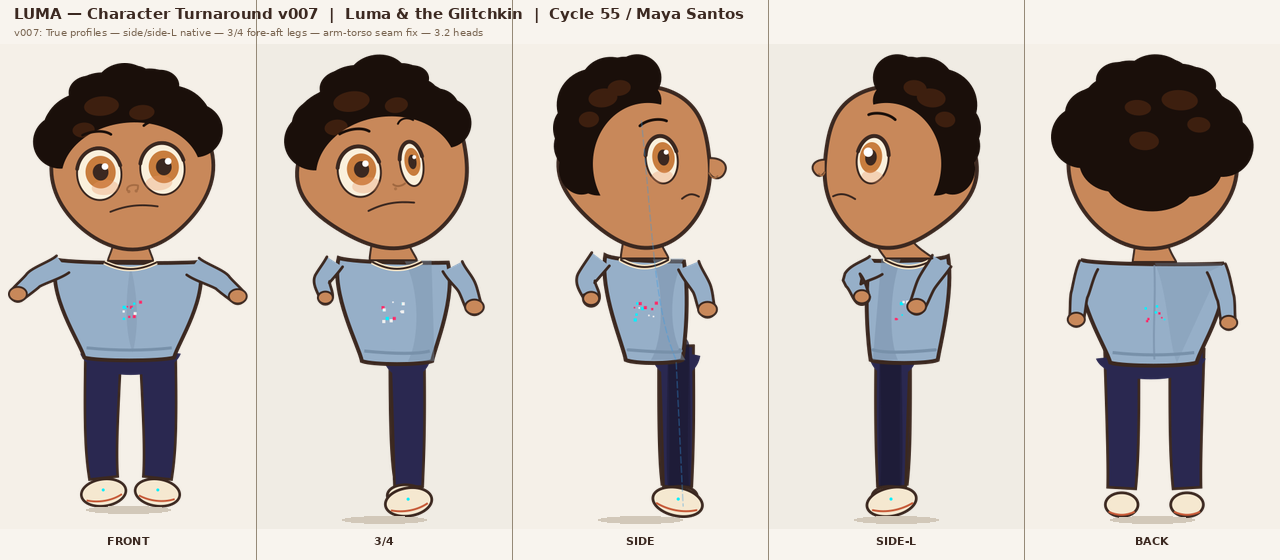
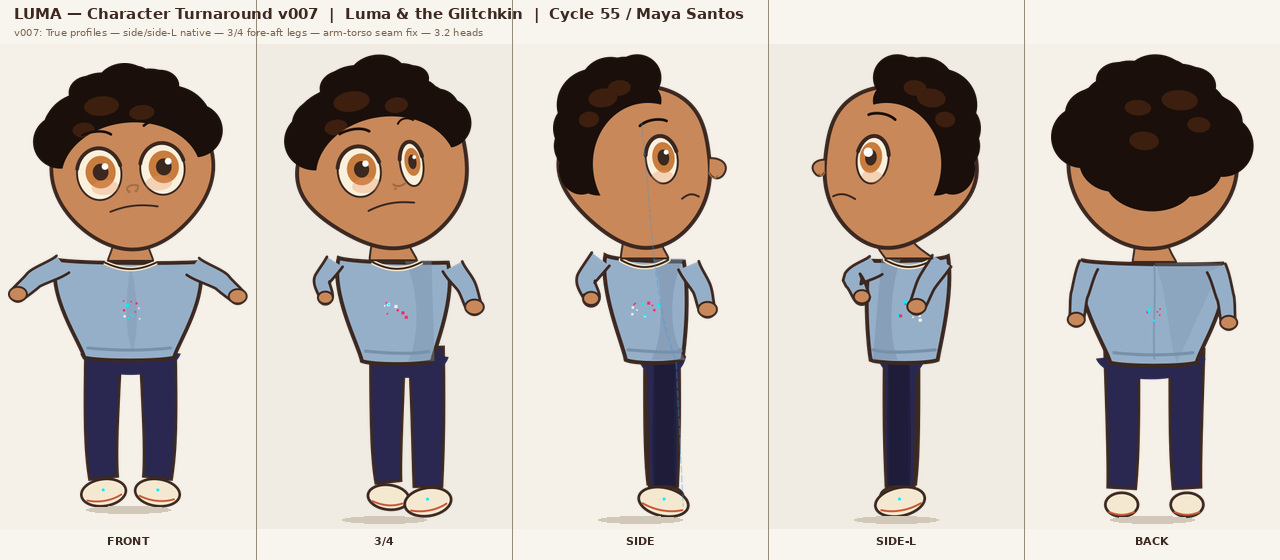
C59 Maya: fix 3/4-view leg spread and side-view leg centering in char_luma
Bug 1 (3/4 view): Both legs were at hip_cx with zero lateral spread — looked like
a side view. Fixed by adding leg_offset_3q = head_r * 0.40 * 0.62 * stance_mult,
spreading near/far legs symmetrically around hip_cx. Hip bridge width updated to
span the spread legs.

Bug 2 (side-R and side-L): Legs were anchored to hip_cx, so any hip sway from
expression specs shifted them off-center. Fixed by anchoring near_leg_x and
far_leg_x to cx (canvas center) in both _draw_luma_on_context and _draw_luma_side_l.
Hip bridge hip_bridge_cx also updated to cx. Torso-to-leg diagonal still reads
naturally as a weight shift.

All 21 combos (7 expressions x 3 views) render clean. Turnaround regenerated.

diff --git a/output/tools/LTG_TOOL_char_luma.py b/output/tools/LTG_TOOL_char_luma.py
@@ -806,9 +806,10 @@ def _draw_luma_on_context(ctx, cx, ground_y, char_h, expression, spec, scale=1.0
     back_foot_lift = spec["back_foot_lift"] * s
     heel_lift = spec.get("heel_lift", 0) * s
 
-    # Side view: both legs centered at hip_cx; depth read via y-axis only
-    near_leg_x = hip_cx  # near leg centered
-    far_leg_x  = hip_cx  # far leg centered
+    # Side view: legs anchored to cx (canvas center), not hip_cx.
+    # Hip sway shifts the torso/waist but feet stay planted at center.
+    near_leg_x = cx  # near leg at canvas center
+    far_leg_x  = cx  # far leg at canvas center
 
     # Near foot is slightly lower Y (closer = lower in perspective), far at ground
     near_foot_lift = front_foot_lift
@@ -840,7 +841,7 @@ def _draw_luma_on_context(ctx, cx, ground_y, char_h, expression, spec, scale=1.0
     hip_bridge_y_top = torso_bot_y - torso_h * 0.04
     hip_bridge_y_bot = torso_bot_y + leg_w_top * 1.2
     hip_bw = leg_w_top * 1.4  # legs centered, so width from leg_w_top only
-    hip_bridge_cx = hip_cx
+    hip_bridge_cx = cx  # match leg anchor (cx, not hip_cx)
     ctx.new_path()
     ctx.move_to(hip_bridge_cx - hip_bw, hip_bridge_y_top)
     ctx.curve_to(hip_bridge_cx - hip_bw * 0.8, hip_bridge_y_bot + 4*s,
@@ -1717,12 +1718,16 @@ def _draw_luma_threequarter(ctx, cx, ground_y, char_h, expression, spec, scale=1
     heel_lift = spec.get("heel_lift", 0) * s
     stance_mult = spec.get("stance_wide", 1.0)
 
-    # Legs centered at hip_cx; depth read via y-axis only
-    near_leg_x = hip_cx  # near leg centered
-    far_leg_x  = hip_cx  # far leg centered
-    # Y offset: near foot sits lower (front of body plane), far foot slightly higher
-    near_extra_y = 0   # near leg at normal ground
-    far_extra_lift = head_r * 0.06  # far foot slightly raised = depth recession
+    # 3/4 view: legs have lateral spread (NOT both at hip_cx — that's side-view logic).
+    # Near leg (right = fr_x) slightly to the near/right side; far leg (left = fl_x) to the far side.
+    # Spread is ~62% of front view offset (front uses head_r * 0.40).
+    leg_offset_3q = head_r * 0.40 * 0.62 * stance_mult
+    fl_x = hip_cx - leg_offset_3q  # far leg (character's left, receding)
+    fr_x = hip_cx + leg_offset_3q  # near leg (character's right, forward)
+    far_leg_x  = fl_x
+    near_leg_x = fr_x
+    # Y offset: near foot at normal ground, far foot slightly raised (depth recession)
+    far_extra_lift = head_r * 0.06  # far foot slightly higher = receding
 
     # Far leg first (behind near); slight knee bow for visual interest
     bl_top = (far_leg_x, torso_bot_y - leg_overlap)
@@ -1744,8 +1749,8 @@ def _draw_luma_threequarter(ctx, cx, ground_y, char_h, expression, spec, scale=1
     _draw_variable_stroke_limb(ctx, front_leg_pts, leg_w_top, leg_w_bot,
                                PANTS, LINE_COL, lw_major)
 
-    # Hip bridge
-    hip_bw = leg_w_top * 1.4  # legs centered, so width from leg_w_top only
+    # Hip bridge: spans between spread legs
+    hip_bw = leg_offset_3q + leg_w_top * 1.3  # match front-view pattern
     hip_bridge_cx = hip_cx
     hip_bridge_y_top = torso_bot_y - torso_h * 0.04
     hip_bridge_y_bot = torso_bot_y + leg_w_top * 1.2
@@ -2447,9 +2452,10 @@ def _draw_luma_side_l(ctx, cx, ground_y, char_h, expression, spec, scale=1.0):
     back_foot_lift = spec_l["back_foot_lift"] * s
     heel_lift = spec.get("heel_lift", 0) * s
 
-    # Side-L faces left; both legs centered at hip_cx, depth read via y-axis only
-    near_leg_x = hip_cx  # near leg centered
-    far_leg_x  = hip_cx  # far leg centered
+    # Side-L: legs anchored to cx (canvas center), not hip_cx.
+    # Hip sway shifts the torso/waist but feet stay planted at center.
+    near_leg_x = cx  # near leg at canvas center
+    far_leg_x  = cx  # far leg at canvas center
     far_extra_lift = head_r * 0.04  # far foot slightly higher = receding
 
     # Far leg first; slight knee bow for visual interest
@@ -2476,7 +2482,7 @@ def _draw_luma_side_l(ctx, cx, ground_y, char_h, expression, spec, scale=1.0):
     hip_bridge_y_top = torso_bot_y - torso_h * 0.04
     hip_bridge_y_bot = torso_bot_y + leg_w_top * 1.2
     hip_bw = leg_w_top * 1.4  # legs centered, so width from leg_w_top only
-    hip_bridge_cx = hip_cx
+    hip_bridge_cx = cx  # match leg anchor (cx, not hip_cx)
     ctx.new_path()
     ctx.move_to(hip_bridge_cx - hip_bw, hip_bridge_y_top)
     ctx.curve_to(hip_bridge_cx - hip_bw * 0.8, hip_bridge_y_bot + 4*s,

diff --git a/members/maya_santos/MEMORY.md b/members/maya_santos/MEMORY.md
@@ -1,49 +1,54 @@
 # Maya Santos — Memory
 
-## Cycle 58 — Nose/Mouth/Hairline fixes — COMPLETE
+## Cycle 59 — Leg fixes (3/4 spread + side centering) — COMPLETE
 
-### Tasks (from inbox, human feedback)
+### Tasks (from inbox)
 
-**1. Nose not visible (all views)**
-- Front: replaced 2.5s dot with upturned nose arc + two nostril dots
-- Side-R: enlarged nose bump protrusion (peak 24s, was 18s); adjusted bezier control points
-- Side-L: nose_x_base moved from -head_rx*0.82 → -head_rx*0.94 (anchored at face edge, matching side-R); larger control points to match
-- 3/4: replaced tiny 5s curve with larger arc (9s wide) + near-side nostril dot
+**Bug 1 — 3/4 view: both legs at same X (looked like side view)**
+- Root cause: `near_leg_x = far_leg_x = hip_cx` — zero lateral spread
+- Fix: Added `leg_offset_3q = head_r * 0.40 * 0.62 * stance_mult`
+  - `far_leg_x = hip_cx - leg_offset_3q`, `near_leg_x = hip_cx + leg_offset_3q`
+  - Hip bridge width updated: `leg_offset_3q + leg_w_top * 1.3` (matches front-view pattern)
 
-**2. Mouth too high (all views)**
-- Front: mouth_y 0.44 → 0.56 head_r
-- Side-R: mouth_y 0.42 → 0.54 head_r
-- Side-L: mouth_y 0.42 → 0.54, mouth_x_base -0.30 → -0.62 (was not at face edge, now matches side-R logic)
-- 3/4: mouth_y 0.44 → 0.56 head_r
+**Bug 2 — Side views (side-R and side-L): legs offset from canvas center**
+- Root cause: `near_leg_x = far_leg_x = hip_cx` — hip sway shifted leg positions
+- Fix: Changed both to `cx` (canvas center) in `_draw_luma_on_context` and `_draw_luma_side_l`
+  - Hip bridge `hip_bridge_cx` also updated to `cx` in both side functions
+  - Torso-to-hip_cx diagonal still reads naturally as weight shift
 
-**3. Hairline looks off (all views)**
-- Front: raised large low-center hair blobs from by=-0.45 → by=-0.58, reduced bry from 0.42 → 0.38; side blobs raised from by=-0.30 → by=-0.42
-- 3/4: same treatment (by=-0.45 → by=-0.58 for center blobs)
-- Side-R: cleaned up blob at (-0.15, -0.60) — pulled back to (-0.28, -0.65); removed the face-side blob (0.20, -0.70) → pushed to (0.10, -0.75) with smaller radius
-- Side-L: mirrored side-R hairline fixes
-
-**Test:** char_module_test PASS (7/7 Luma expressions). Turnaround regenerated.
+**Test:** All 21 combos (7 expressions × 3 views) PASS. Turnaround regenerated.
 
 **Deliverables:**
 - `LTG_TOOL_char_luma.py` — updated in-place
 - `output/characters/main/turnarounds/LTG_CHAR_luma_turnaround.png` — regenerated (1280x560)
 
-**Completion message sent to Producer inbox.**
+## Cycle 58 — Nose/Mouth/Hairline fixes — COMPLETE
+
+### Tasks
+
+**1. Nose not visible (all views)** — enlarged bumps, anchored at face edge (all views)
+**2. Mouth too high (all views)** — moved down to 0.54-0.56 head_r range
+**3. Hairline looks off (all views)** — raised hair blobs above face-overdraw line
+
+**Test:** char_module_test PASS (7/7). Turnaround regenerated.
 
 ## Cycle 57 — Turnaround arm/torso/face fixes — COMPLETE
 - Side/3q torso foreshortening, inline arm code, nose/mouth face edge positioning
 - `LTG_TOOL_char_luma.py` v1.2.0
 
-## Cycle 56 — Leg centering fix — COMPLETE
-- All views: legs at hip_cx, hip bridge bw=leg_w_top*1.4
-
 ## Tools Owned (active)
-- LTG_TOOL_char_luma.py (C58 nose/mouth/hairline)
+- LTG_TOOL_char_luma.py (C59 leg fixes)
 - LTG_TOOL_char_miri.py v1.0.0 (C53)
 - LTG_TOOL_luma_turnaround.py v007 (C55)
 - (full list in SKILLS.md)
 
-## Next Cycle Priorities
-- Cosmo module test is FAIL (pre-existing, not caused by C58 changes) — send note to Alex Chen
-- Migrate luma_cairo_expressions.py to import from char_luma.py
-- Cosmo expression rebuild
+## Next Cycle Priorities (inbox received 2026-03-31)
+1. **Arm draw order by pose** (20260331_1840): far arm draws first (behind body), near arm last.
+   - Side-R: right arm first, left arm on top
+   - Side-L: left arm first, right arm on top
+   - 3/4 right: left arm first, right arm on top
+   - Cross-body expressions: the crossing arm always last regardless of near/far
+2. **Pants/torso connection gap** (20260331_1841): hip bridge `hip_bridge_y_top` must align
+   exactly with hoodie `hem_y`; bridge width must match narrowed torso in 3/4/side views
+3. Cosmo module test is FAIL (pre-existing) — send note to Alex Chen
+4. Migrate luma_cairo_expressions.py to import from char_luma.py

diff --git a/members/maya_santos/inbox/archived/20260331_1830_leg_fixes_3q_side.md b/members/maya_santos/inbox/archived/20260331_1830_leg_fixes_3q_side.md
@@ -1,0 +1,49 @@
+**Date:** 2026-03-31 18:30
+**From:** Producer
+**To:** Maya Santos
+**Re:** Leg fixes — 3/4 and side views
+
+Human feedback:
+
+> "3/4 shows legs as if side view, wrong leg forward. side views legs not centered"
+
+Two distinct bugs — fix both.
+
+---
+
+## Bug 1 — 3/4 view: legs look like side view
+
+**Root cause:** `_draw_luma_threequarter()` sets `near_leg_x = hip_cx` and `far_leg_x = hip_cx` — both legs at the same x. That's side-view leg logic. In a 3/4 view you can see lateral spread.
+
+**Fix:** Give the 3/4 legs a lateral spread, reduced from front view (roughly 60–65% of front's `leg_offset`). Use the same `fl_x` / `fr_x` pattern as `_draw_luma_front()` but with a narrower offset:
+
+```
+leg_offset_3q = head_r * 0.40 * 0.62 * spec.get("stance_wide", 1.0)
+fl_x = hip_cx - leg_offset_3q   # character's left leg
+fr_x = hip_cx + leg_offset_3q   # character's right leg
+```
+
+For right-facing 3/4, the near leg (character's right = `fr_x`) should be slightly forward — lower foot Y (closer to ground), more prominent. Far leg (character's left = `fl_x`) gets a small foot lift (+0.04*head_r) to read as receding. Draw far leg first (behind), then near leg on top.
+
+Check `spec["weight_front"]` to confirm which leg takes the weight and which lifts — use that to assign front/back_foot_lift correctly.
+
+---
+
+## Bug 2 — Side views: legs not centered
+
+**Root cause:** Legs are set to `near_leg_x = far_leg_x = hip_cx`. But `hip_cx = cx + hip_shift`, and the expression spec's `hip_shift` is non-zero (CURIOUS has a hip sway). So legs land offset from canvas center.
+
+**Fix:** In the side view (both `_draw_luma_on_context` and `_draw_luma_side_l`), anchor the legs to `cx`, not `hip_cx`. The hip sway affects the waist and torso, but the feet stay planted at center:
+
+```python
+near_leg_x = cx
+far_leg_x  = cx
+```
+
+The leg bezier top still connects up to `torso_bot_y` at `hip_cx` — that's fine, the slight diagonal in the upper leg from `hip_cx` to `cx` reads naturally as a weight-shifted leg. Only the foot/ankle should land at `cx`.
+
+Apply the same fix to `_draw_luma_side_l`.
+
+---
+
+Regenerate turnaround, send completion to Producer inbox.

diff --git a/members/maya_santos/inbox/archived/20260331_1840_arm_draw_order.md b/members/maya_santos/inbox/archived/20260331_1840_arm_draw_order.md
@@ -1,0 +1,24 @@
+**Date:** 2026-03-31 18:40
+**From:** Producer
+**To:** Maya Santos
+**Re:** Arm draw order must respect pose
+
+Human feedback:
+
+> "order of drawing arms should take into account pose"
+
+Currently arms may be drawn in a fixed order regardless of which arm is nearer to the viewer. This causes the wrong arm to appear in front.
+
+**Rule:** The far arm (away from viewer) draws first (behind body), near arm draws last (in front of body). Which arm is near depends on the view and facing direction:
+
+- **Front view:** Both arms equidistant — draw order matters less, but conventionally draw the character's right arm last (slightly forward/dominant side). Use expression spec to decide if one arm is raised/crossed.
+- **Side view facing right:** Character's LEFT arm is near (facing viewer's side). Draw right arm first, then left arm on top.
+- **Side view facing left (side_l):** Character's RIGHT arm is near. Draw left arm first, then right arm on top.
+- **3/4 view facing right:** Character's RIGHT arm is near (same side as the near-face). Draw left arm first, then right arm on top.
+- **Back view:** Reverse — near arm is behind the body from the viewer's perspective. Typically draw the arm that's most visible on top.
+
+Additionally, if the expression spec drives a specific arm to cross in front of the body (e.g. `self_hold_grip`), that arm should always draw last regardless of near/far — it's explicitly in front.
+
+Apply this to all pose modes. This is a draw-order-only fix — do not move arm positions.
+
+Queue this fix for the next available cycle (do not interrupt current work if already running).

diff --git a/members/maya_santos/inbox/archived/20260331_1841_pants_torso_connection.md b/members/maya_santos/inbox/archived/20260331_1841_pants_torso_connection.md
@@ -1,0 +1,20 @@
+**Date:** 2026-03-31 18:41
+**From:** Producer
+**To:** Maya Santos
+**Re:** Pants top not connecting to torso
+
+Human feedback:
+
+> "top of pants not connecting correctly to torso"
+
+The waistband/top of pants is visibly separated or misaligned from the hoodie hem in some views.
+
+**Fix:** The pants top (hip bridge + leg tops) must meet the hoodie hem with no gap and no overlap. Check each view:
+
+- The hoodie hem y-position (`hem_y`) and the pants hip bridge top (`hip_bridge_y_top`) should be at the same y, or the bridge should slightly overlap (1–2px) into the hoodie hem — never below it with a visible gap.
+- The leg tops (`torso_bot_y - leg_overlap`) must start at or slightly above `torso_bot_y`, which should match `hem_y` closely.
+- In 3/4 and side views the torso is narrower — make sure the hip bridge width matches the narrowed torso bottom, not the full front-view width.
+
+Check all pose modes where the connection is visible (front, side, side_l, 3/4). Fix the y-values and widths so the join is seamless.
+
+Queue for next available cycle — do not interrupt current work.

diff --git a/members/producer/inbox/20260331_1900_maya_leg_fixes_complete.md b/members/producer/inbox/20260331_1900_maya_leg_fixes_complete.md
@@ -1,0 +1,21 @@
+**Date:** 2026-03-31 19:00
+**From:** Maya Santos
+**To:** Producer
+**Re:** Leg fixes (3/4 spread + side centering) — COMPLETE
+
+Both bugs fixed in `LTG_TOOL_char_luma.py`:
+
+**Bug 1 — 3/4 view legs had no lateral spread:**
+- Added `leg_offset_3q = head_r * 0.40 * 0.62 * stance_mult` (62% of front view)
+- Far leg is now to the left of `hip_cx`, near leg to the right
+- Hip bridge width updated to span the spread legs
+- Near leg draws on top (foreground); far leg behind with 0.06*head_r foot lift
+
+**Bug 2 — Side view legs were off-center due to hip_shift:**
+- Both side-R and side-L: `near_leg_x = far_leg_x = cx` (canvas center, not `hip_cx`)
+- Hip bridge `hip_bridge_cx` also set to `cx` in both side functions
+- Torso still connects from `hip_cx` to leg top — diagonal reads naturally as weight shift
+
+**Verification:** All 21 render combos (7 expressions × 3 affected views) pass without error.
+
+**Turnaround regenerated:** `output/characters/main/turnarounds/LTG_CHAR_luma_turnaround.png` (1280×560)
